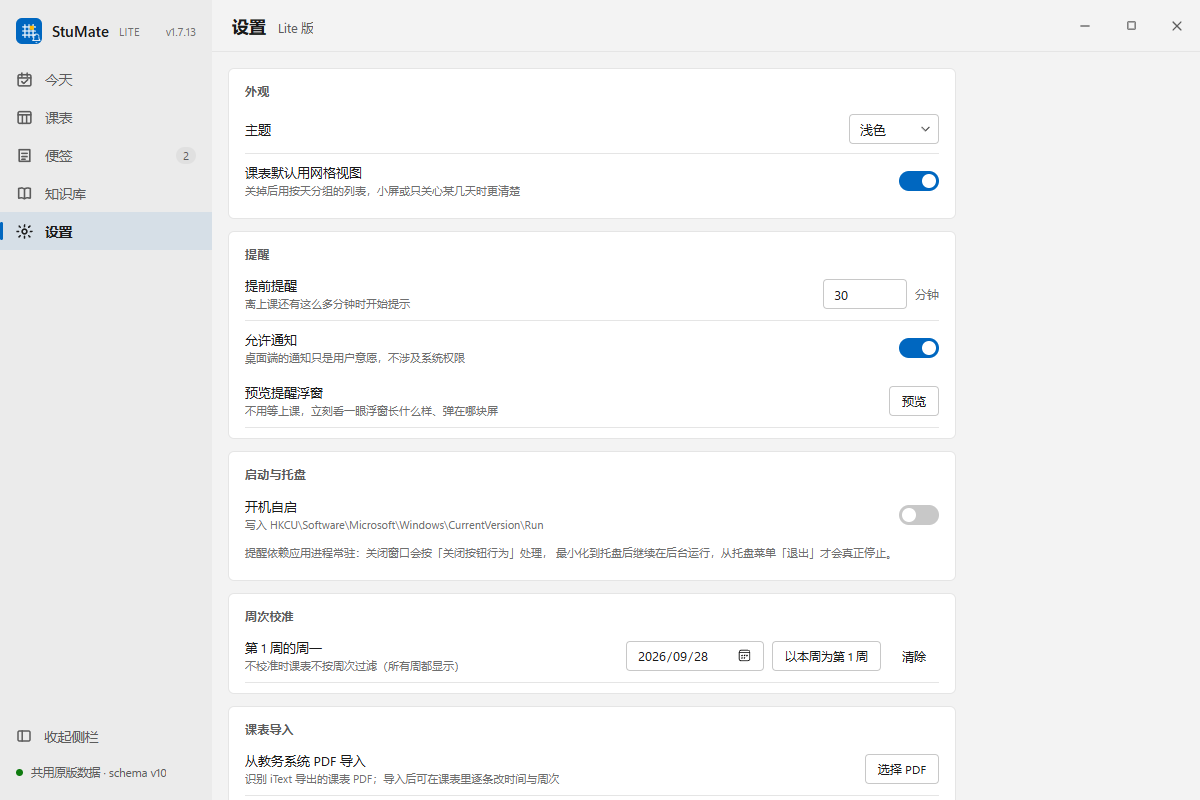
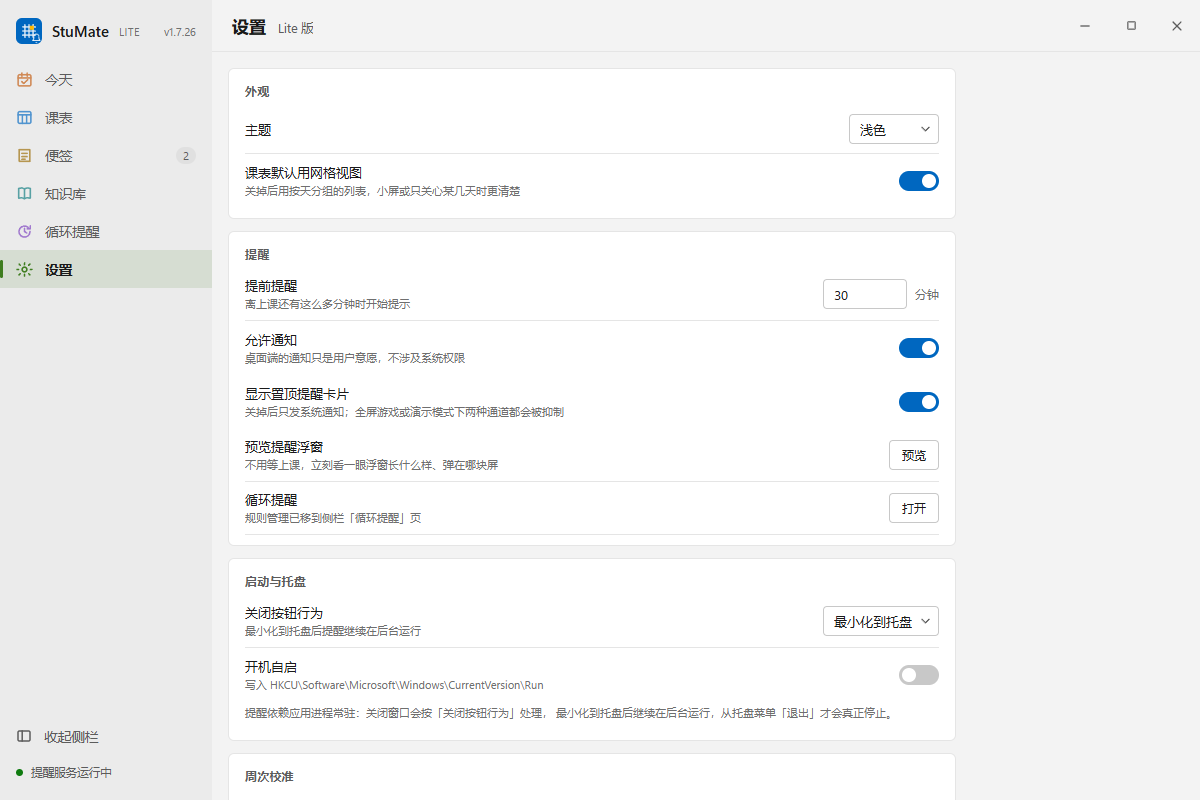
v1.7.26 侧栏图标默认淡彩、选中加深并同色系高亮

diff --git a/src/styles/app.css b/src/styles/app.css
@@ -2881,3 +2881,83 @@ html.theme-switching *::after {
     animation-duration: 1ms;
   }
 }
+
+/* ── v1.7.26 · 侧栏图标：默认淡彩，高亮加深 ────────────────────────
+ * 六个一级页各绑一档已有的身份色（tokens 里的 `--class-0..7`，深浅主题各一套），
+ * 不再复用文字色 —— 原来图标跟 `currentColor` 走，六个齿轮/日历长得一个样，
+ * 扫侧栏只能靠读字。
+ * 三档浓度用 `color-mix` 往侧栏底色（--surface2）里洗出来，不新增色值：
+ *   · 默认 66%：看得出是哪种颜色，但明显压着、不抢文字；
+ *   · hover 84%：指针扫过时先亮一档，给点反馈；
+ *   · 选中 100%（原色）：比默认那档浓，这就是「高亮加深」。
+ * 只给 svg 上色，不动 `.nav-item` 的 color —— 文字、条数徽标、状态点保持原来的
+ * 灰/正文色，否则整条导航会变成彩色文字墙。
+ * 「收起侧栏」没有 data-nav，`var(--nav-hue)` 未定义 → 整条 color-mix 失效、
+ * 落到继承色，它照旧是灰的（它不是页面，不该有身份色）。
+ * 回滚 = 删掉本段 + Chrome.tsx 里那行 data-nav。
+ * ─────────────────────────────────────────────────────────────── */
+
+.nav-item[data-nav="today"] { --nav-hue: var(--class-4); }
+.nav-item[data-nav="week"] { --nav-hue: var(--class-0); }
+.nav-item[data-nav="notes"] { --nav-hue: var(--class-3); }
+.nav-item[data-nav="knowledge"] { --nav-hue: var(--class-1); }
+.nav-item[data-nav="recurring"] { --nav-hue: var(--class-6); }
+/* 设置用绿而不是 --class-7：那档是蓝灰（#5c6b7a / #9db2c4），洗到 66% 之后
+   和旁边的灰文字几乎分不出来，「淡彩」等于没上色。绿色是这套色板里唯一还
+   空着的一档，六项色相正好全不同。 */
+.nav-item[data-nav="settings"] { --nav-hue: var(--class-2); }
+
+.nav-item svg {
+  color: color-mix(in srgb, var(--nav-hue) 66%, var(--surface2));
+  transition: color var(--dur-fast) var(--ease-fluent);
+}
+
+.nav-item:hover svg {
+  color: color-mix(in srgb, var(--nav-hue) 84%, var(--surface2));
+}
+
+.nav-item.active svg {
+  color: var(--nav-hue);
+}
+
+/* 选中项左侧那根竖条也跟页走：图标已经是橙的、竖条还是蓝的，冷暖会撞。
+   未定义 --nav-hue 时（收起侧栏）回落到 --accent，形状与原来一致。 */
+.nav-item.active::before {
+  background: var(--nav-hue, var(--accent));
+}
+
+/* 选中底色也跟页走：图标、竖条都已经是这页的色相，底色还锁在强调蓝的话，
+   橙 / 金 / 紫那几页就会「冷底配暖图标」。浓度按主题分开定 —— 深色底本来就深，
+   同样的比例看不出来。 */
+:root[data-theme="light"] {
+  --nav-active-wash: 12%;
+}
+:root[data-theme="dark"] {
+  --nav-active-wash: 20%;
+}
+
+.nav-item.active {
+  background: color-mix(
+    in srgb,
+    var(--nav-hue, var(--accent)) var(--nav-active-wash),
+    transparent
+  );
+}
+
+/* 选中底色也跟页走：图标、竖条都已经是这页的色相，底色还锁在强调蓝的话，
+   橙 / 金 / 紫那几页就会「冷底配暖图标」。浓度按主题分开定 —— 深色底本来就深，
+   同样的比例看不出来。 */
+:root[data-theme="light"] {
+  --nav-active-wash: 12%;
+}
+:root[data-theme="dark"] {
+  --nav-active-wash: 20%;
+}
+
+.nav-item.active {
+  background: color-mix(
+    in srgb,
+    var(--nav-hue, var(--accent)) var(--nav-active-wash),
+    transparent
+  );
+}

diff --git a/src/components/Chrome.tsx b/src/components/Chrome.tsx
@@ -157,6 +157,10 @@ export function Sidebar({
           <button
             key={item.key}
             className={`nav-item${page === item.key ? " active" : ""}`}
+            // v1.7.26：图标按页取一档身份色（CSS 里 `[data-nav=…]` 绑 --nav-hue）。
+            // 用 data 而不是内联 style，是因为颜色要区分淡 / 浓 / hover 三态，
+            // 得由 CSS 算；内联只能给一个定值。
+            data-nav={item.key}
             onClick={() => onNavigate(item.key)}
             title={collapsed ? item.label : undefined}
           >

diff --git a/tools/preview_bridge.js b/tools/preview_bridge.js
@@ -189,7 +189,7 @@
   };
 
   var APP_INFO = {
-    version: "1.7.25",
+    version: "1.7.26",
     flavor: "lite",
     dataDir: "C:\\Users\\Administrator\\AppData\\Roaming\\StuMate",
     dbPath: "C:\\Users\\Administrator\\AppData\\Roaming\\StuMate\\class_reminder.db",
